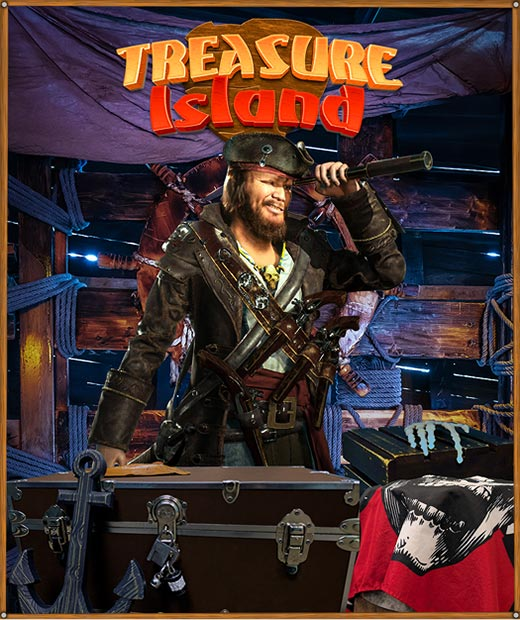
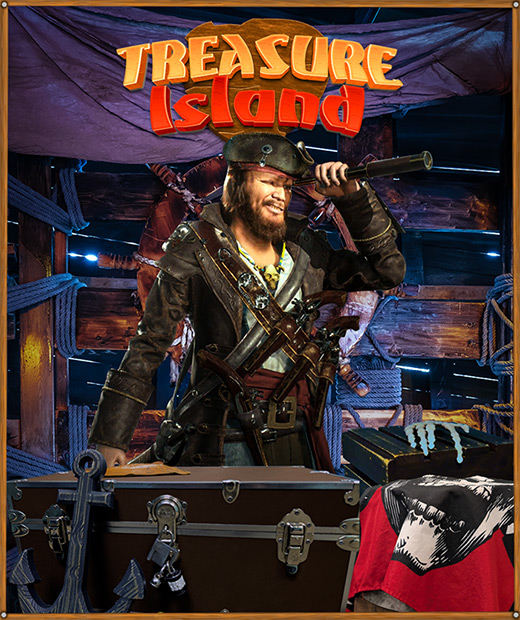
up

diff --git a/comps/v2/eventPageV2/FeedBackTestimonialSlider.jsx b/comps/v2/eventPageV2/FeedBackTestimonialSlider.jsx
@@ -38,9 +38,9 @@ export default function FeedBackTestimonialSlider({
 }) {
   return (
     <div className="reward-work-section bg-[#FFF9EB] bg-[url('/assets/mobile-escape-room/brown-paper-bg.jpg')] bg-[240px_240px] md:bg-[300px_300px] lg:bg-[400px_400px]">
-      <div className="section-container max-w-[640px] lg:max-w-7xl py-16 md:py-20 lg:py-28 px-4 mx-auto">
+      <div className="section-container max-w-[860px] lg:max-w-7xl py-16 md:py-20 lg:py-28 px-4 mx-auto">
         <div className="section-row flex flex-col lg:flex-row justify-between lg:space-x-2">
-          <div className="section-col max-w-[570px]">
+          <div className="section-col  lg:max-w-[570px]">
             <img
               className="max-w-full"
               src={

diff --git a/comps/v2/eventPageV2/CustomerLoveTestimonialCarousel.jsx b/comps/v2/eventPageV2/CustomerLoveTestimonialCarousel.jsx
@@ -36,7 +36,7 @@ const customerLoveCarouselData = [
 export default function CustomerLoveTestimonialCarousel(props) {
   return (
     <div className="customer-love-testimonial-section bg-[#FFF9EB] bg-[url('/assets/mobile-escape-room/brown-paper-bg.jpg')] bg-[240px_240px] md:bg-[300px_300px] lg:bg-[400px_400px]">
-      <div className="section-container max-w-[600px] lg:max-w-7xl py-16 md:py-20 lg:py-28 px-4 xl:px-6 mx-auto">
+      <div className="section-container max-w-[900px] lg:max-w-7xl py-16 md:py-20 lg:py-28 px-4 lg:px-8 2xl:px-4 mx-auto">
         <div className="section-title mb-6 rm:mb-8 md:mb-10 lg:mb-12 md:max-w-[760px] lg:max-w-[900px] mx-auto">
           <h2 className="dark-gold py-[2px]  text-2xl md:text-[40px] lg:text-[44px] 2xl:text-[48px] leading-[1.2] font-os font-bold uppercase text-center">
             {props.sectionData.title

diff --git a/comps/v2/eventPageV2/EventPageHero.jsx b/comps/v2/eventPageV2/EventPageHero.jsx
@@ -25,7 +25,7 @@ export default function EventPageHero({
         <EventHeroBgVideo />
       </div>
       <div className="section-wrapper relative bg-[#370202]/80 z-20">
-        <div className="section-container xl:max-w-[1230px] 2xl:max-w-7xl mx-auto pb-16 pt-12 md:py-20 lg:py-[9rem] xl:py-32 2xl:py-[10rem] px-3 zm:px-4">
+        <div className="section-container md:max-w-[840px] lg:maz-w-[1020px] xl:max-w-[1236px] 2xl:max-w-7xl mx-auto pb-16 pt-12 md:py-20 lg:py-[9rem] xl:py-32 2xl:py-[10rem] px-3 zm:px-4">
           <div className="section-row flex flex-col lg:flex-row lg:space-x-5 lg:justify-between  items-center">
             <div className="section-col order-2 lg:order-1 max-w-[640px] lg:max-w-[500px] xl:max-w-[50%] 2xl:max-w-[48%]">
               <div className="section-text">